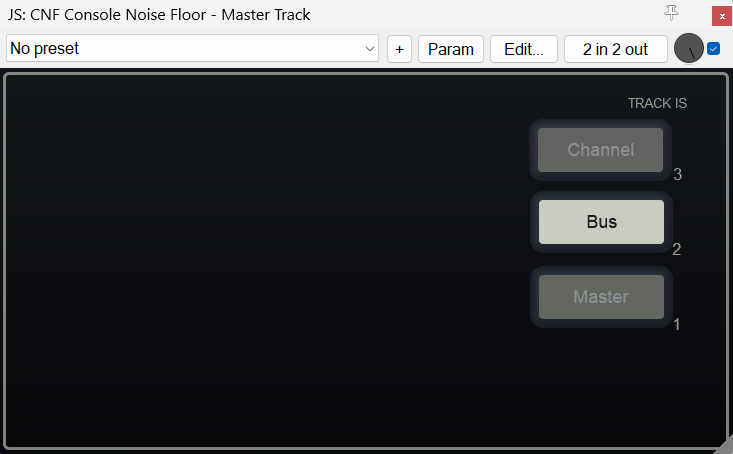
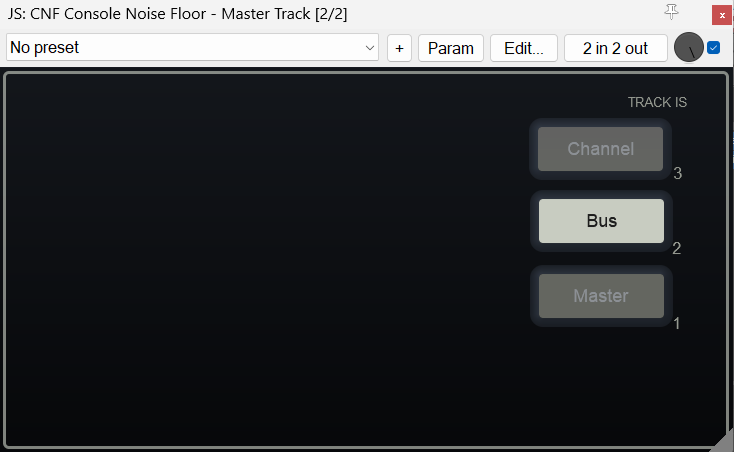
CNF Facelift v1.0.2: new pictures, license line and contact

diff --git a/README.md b/README.md
@@ -11,7 +11,11 @@ It grows the way a real console does: the more tracks you use, the higher the fl
 
 ![CNF Master](assets/screenshots/cnf-master.png)
 
-*CNF on the master track, in the Master role.*
+*CNF on the master track, in the Master role, with the noise on.*
+
+![CNF Master with the noise off](assets/screenshots/cnf-master-off.png)
+
+*The same CNF with the noise off.*
 
 ## How it works
 
@@ -177,8 +181,8 @@ To turn it on:
 ![FX insert menu](assets/screenshots/cnf-embedded-ui-menu.png)
 
 *The FX insert menu in REAPER.*
-
 ![CNF Master in the mixer](assets/screenshots/cnf-mixer-master.png)
+
 
 *The Master in the mixer.*
 
@@ -219,7 +223,7 @@ THS Master Summer throws away channels 1 and 2 and replaces them with the sum of
 
 ## Download
 
-**[Download CNF_Facelift.jsfx](https://github.com/heavywateraudio/cnf-jsfx/releases/download/cnf-facelift-v1.0/CNF_Facelift.jsfx)**
+**[Download CNF_Facelift.jsfx](https://github.com/heavywateraudio/cnf-jsfx/releases/download/cnf-facelift-v1.0.2/CNF_Facelift.jsfx)**
 
 It's one file with everything inside.
 [View the code](https://github.com/heavywateraudio/cnf-jsfx/blob/master/jsfx/CNF_Facelift.jsfx) on GitHub.
@@ -236,5 +240,5 @@ It's one file with everything inside.
 ## Credits
 
 - DSP: Andy Rx (Heavy Water Audio), v0.1.06, MIT License.
-- GUI: Andy Rx (Heavy Water Audio), v1.0, MIT License.
+- GUI: Andy Rx (Heavy Water Audio), v1.0.2, MIT License.
 - GUI made with [Facelift](https://github.com/heavywateraudio/facelift-jsfx).
